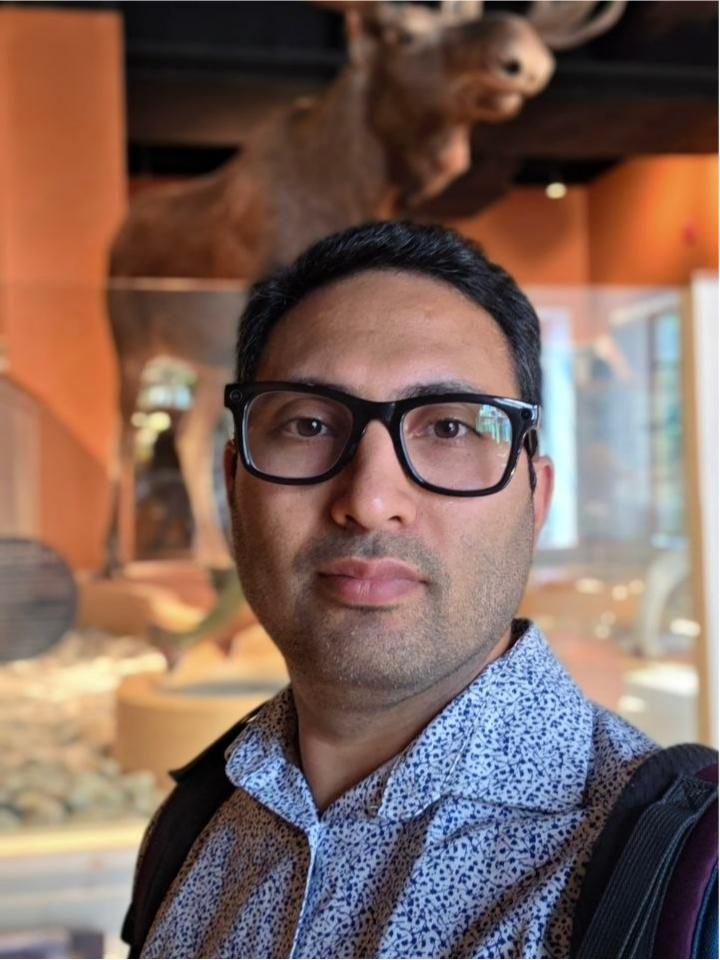
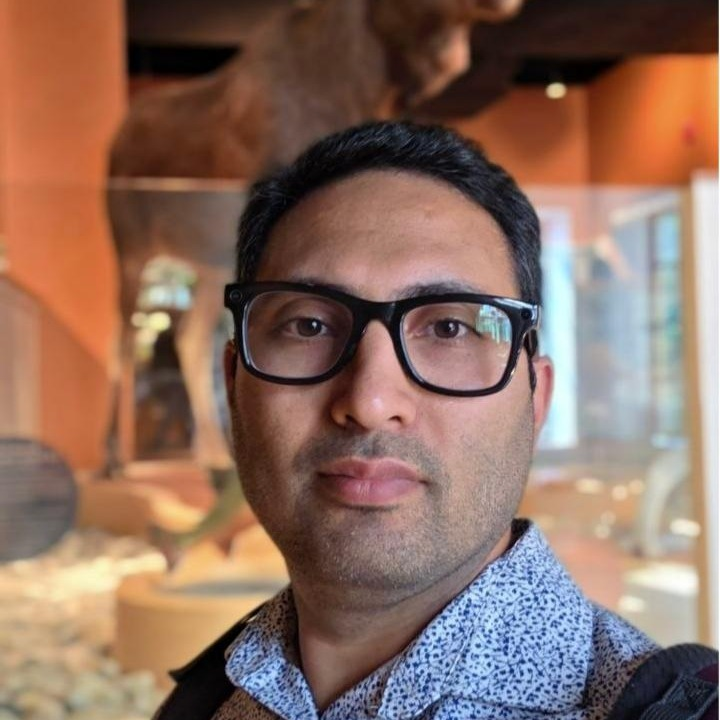
Pre-crop Hassan team photo to a face-centered square.
CSS top-crop showed the moose/ceiling above his head because the portrait
subject sits below the top of the frame. Physical crop makes object-fit work
like the other team photos.

diff --git a/assets/css/pages.css b/assets/css/pages.css
@@ -44,40 +44,20 @@
   transition: transform 0.25s ease, box-shadow 0.25s ease;
 }
 
-.team-photo-frame {
-  width: 180px;
-  height: 180px;
-  overflow: hidden;
-  border-radius: 12px;
-  margin-bottom: 1rem;
-  border: 1px solid rgba(255, 255, 255, 0.1);
-  box-shadow: 0 4px 14px rgba(0, 0, 0, 0.25);
-  transition: transform 0.25s ease, box-shadow 0.25s ease;
-}
-
-.team-photo-frame img {
-  width: 180px;
-  height: auto;
-  display: block;
-}
-
 @media (prefers-reduced-motion: no-preference) {
-  .team-card:hover .team-photo,
-  .team-card:hover .team-photo-frame {
+  .team-card:hover .team-photo {
     transform: scale(1.03);
     box-shadow: 0 8px 20px rgba(0, 0, 0, 0.35);
   }
 }
 
-body.light-mode .team-photo,
-body.light-mode .team-photo-frame {
+body.light-mode .team-photo {
   border-color: rgba(0, 0, 0, 0.08);
   box-shadow: 0 4px 14px rgba(0, 0, 0, 0.08);
 }
 
 @media (prefers-reduced-motion: no-preference) {
-  body.light-mode .team-card:hover .team-photo,
-  body.light-mode .team-card:hover .team-photo-frame {
+  body.light-mode .team-card:hover .team-photo {
     box-shadow: 0 8px 20px rgba(0, 0, 0, 0.12);
   }
 }

diff --git a/team.md b/team.md
@@ -15,9 +15,7 @@ permalink: /team/
 <div class="card-grid card-grid-3">
 
 <div class="card team-card">
-  <div class="team-photo-frame team-photo-frame--hassan">
-    <img src="/assets/team/hassan.jpeg" alt="Photo of Dr. Hassan Khodaiemehr" width="180">
-  </div>
+  <img src="/assets/team/hassan.jpeg" alt="Photo of Dr. Hassan Khodaiemehr" class="team-photo" width="180" height="180">
   <h2>Dr. Hassan Khodaiemehr</h2>
   <h4>Co‑Founder &amp; CEO</h4>
 
